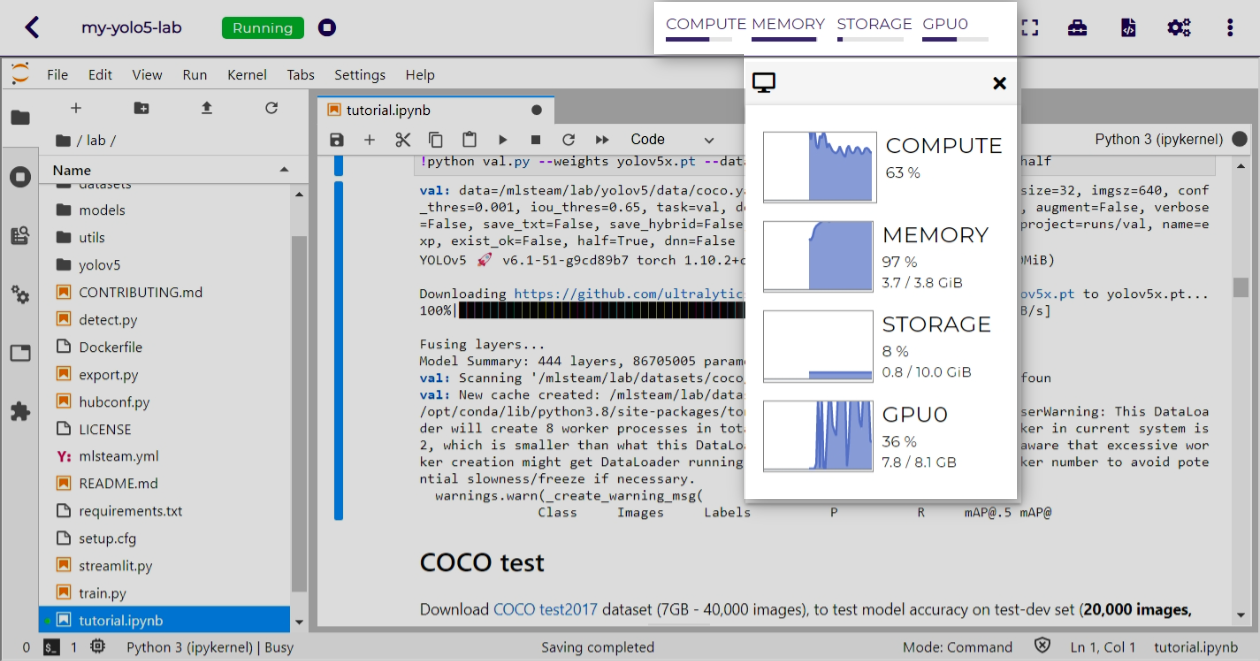
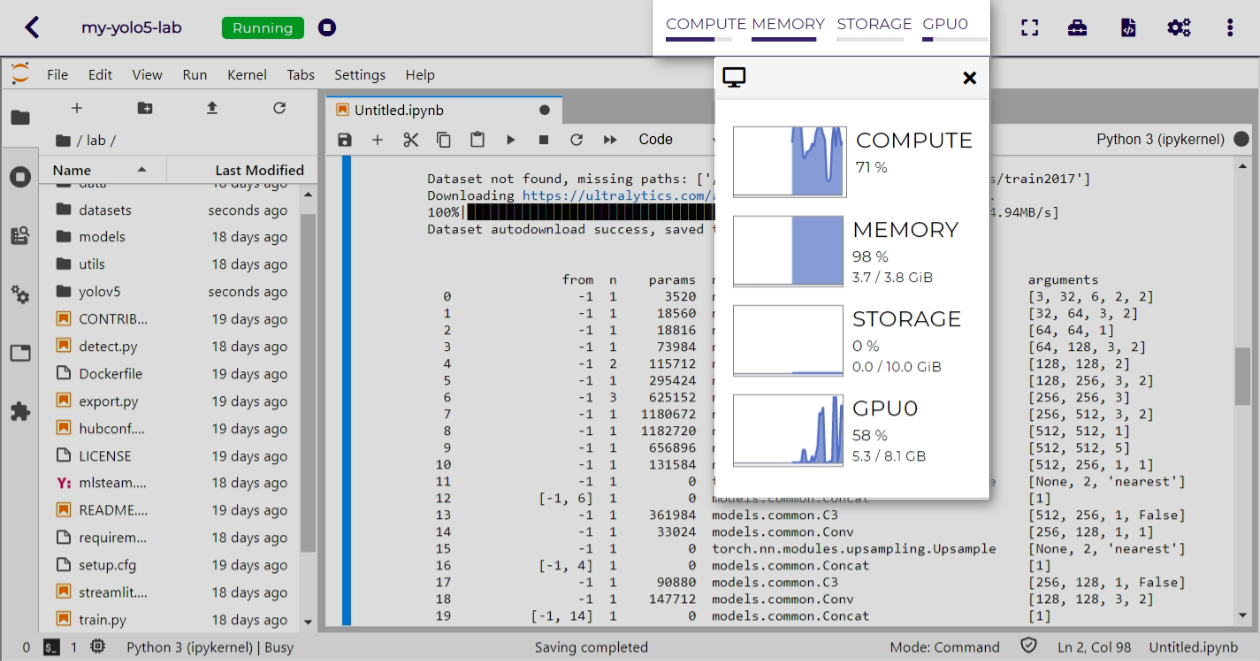
Update the quik start page

diff --git a/user/quick_start.rst b/user/quick_start.rst
@@ -77,31 +77,72 @@ Simply create a lab from template.
 Train the Model
 ===============
 
-We will then train the model in the lab.
+We will then train the model in the lab by creating a Python notebook.
 
 #) Go to the lab page by clicking on the *JupyterLab* icon. The lab interactive environment will be opened.
 
     .. image:: /_static/imgs/user/get_started/run_lab_1.png
         :width: 480
 
-#) Open the model training notebook by double clicking on the *tutorial.ipynb* file on the left.
+#) Create the model training notebook by clicking on the *Python 3 (ipkernel)* launcher under the *Notebook* section.
 
     .. image:: /_static/imgs/user/get_started/run_lab_2.png
         :width: 600
 
-#) Train the model by clicking on the menu item: *Run* → *Restart Kernel and Run All Cells*.
+#) Copy the lines below into the first cell in the notebook.
+
+    .. code-block:: 
+
+        # Setup
+        !git clone https://github.com/ultralytics/yolov5  # clone
+        %cd yolov5
+        %pip install -qr requirements.txt  # install
+
+        import torch
+        from yolov5 import utils
+        display = utils.notebook_init()  # checks
 
     .. image:: /_static/imgs/user/get_started/run_lab_3a.png
         :width: 600
 
-    Alternatively, click on the toolbar icon.
+#) Click on the *insert* button to insert a second cell.
 
     .. image:: /_static/imgs/user/get_started/run_lab_3b.png
-        :width: 480
+        :width: 300
+
+#) Copy the lines below into the second cell.
+
+    .. code-block:: 
+
+        # Inference
+        !python detect.py --weights yolov5s.pt --img 640 --conf 0.25 --source data/images
+        display.Image(filename='runs/detect/exp/zidane.jpg', width=600)
+
+#) Insert the third cell. Copy the lines below into this cell.
+
+    .. code-block:: 
+
+        # Train YOLOv5s on COCO128 for 3 epochs
+        !python train.py --img 640 --batch 16 --epochs 3 --data coco128.yaml --weights yolov5s.pt --cache
+
+    The notebook should now look like this:
+
+    .. image:: /_static/imgs/user/get_started/run_lab_3c.png
+        :width: 600
+
+#) Train the model by clicking on the menu item: *Run* → *Restart Kernel and Run All Cells*.
+
+    .. image:: /_static/imgs/user/get_started/run_lab_4a.png
+        :width: 600
+
+    Alternatively, click on the toolbar icon.
+
+    .. image:: /_static/imgs/user/get_started/run_lab_4b.png
+        :width: 300
 
 #) Click on the *Restart* button.
 
-    .. image:: /_static/imgs/user/get_started/run_lab_4.png
+    .. image:: /_static/imgs/user/get_started/run_lab_4c.png
         :width: 300
 
 #) The training program will start running cell by cell.
